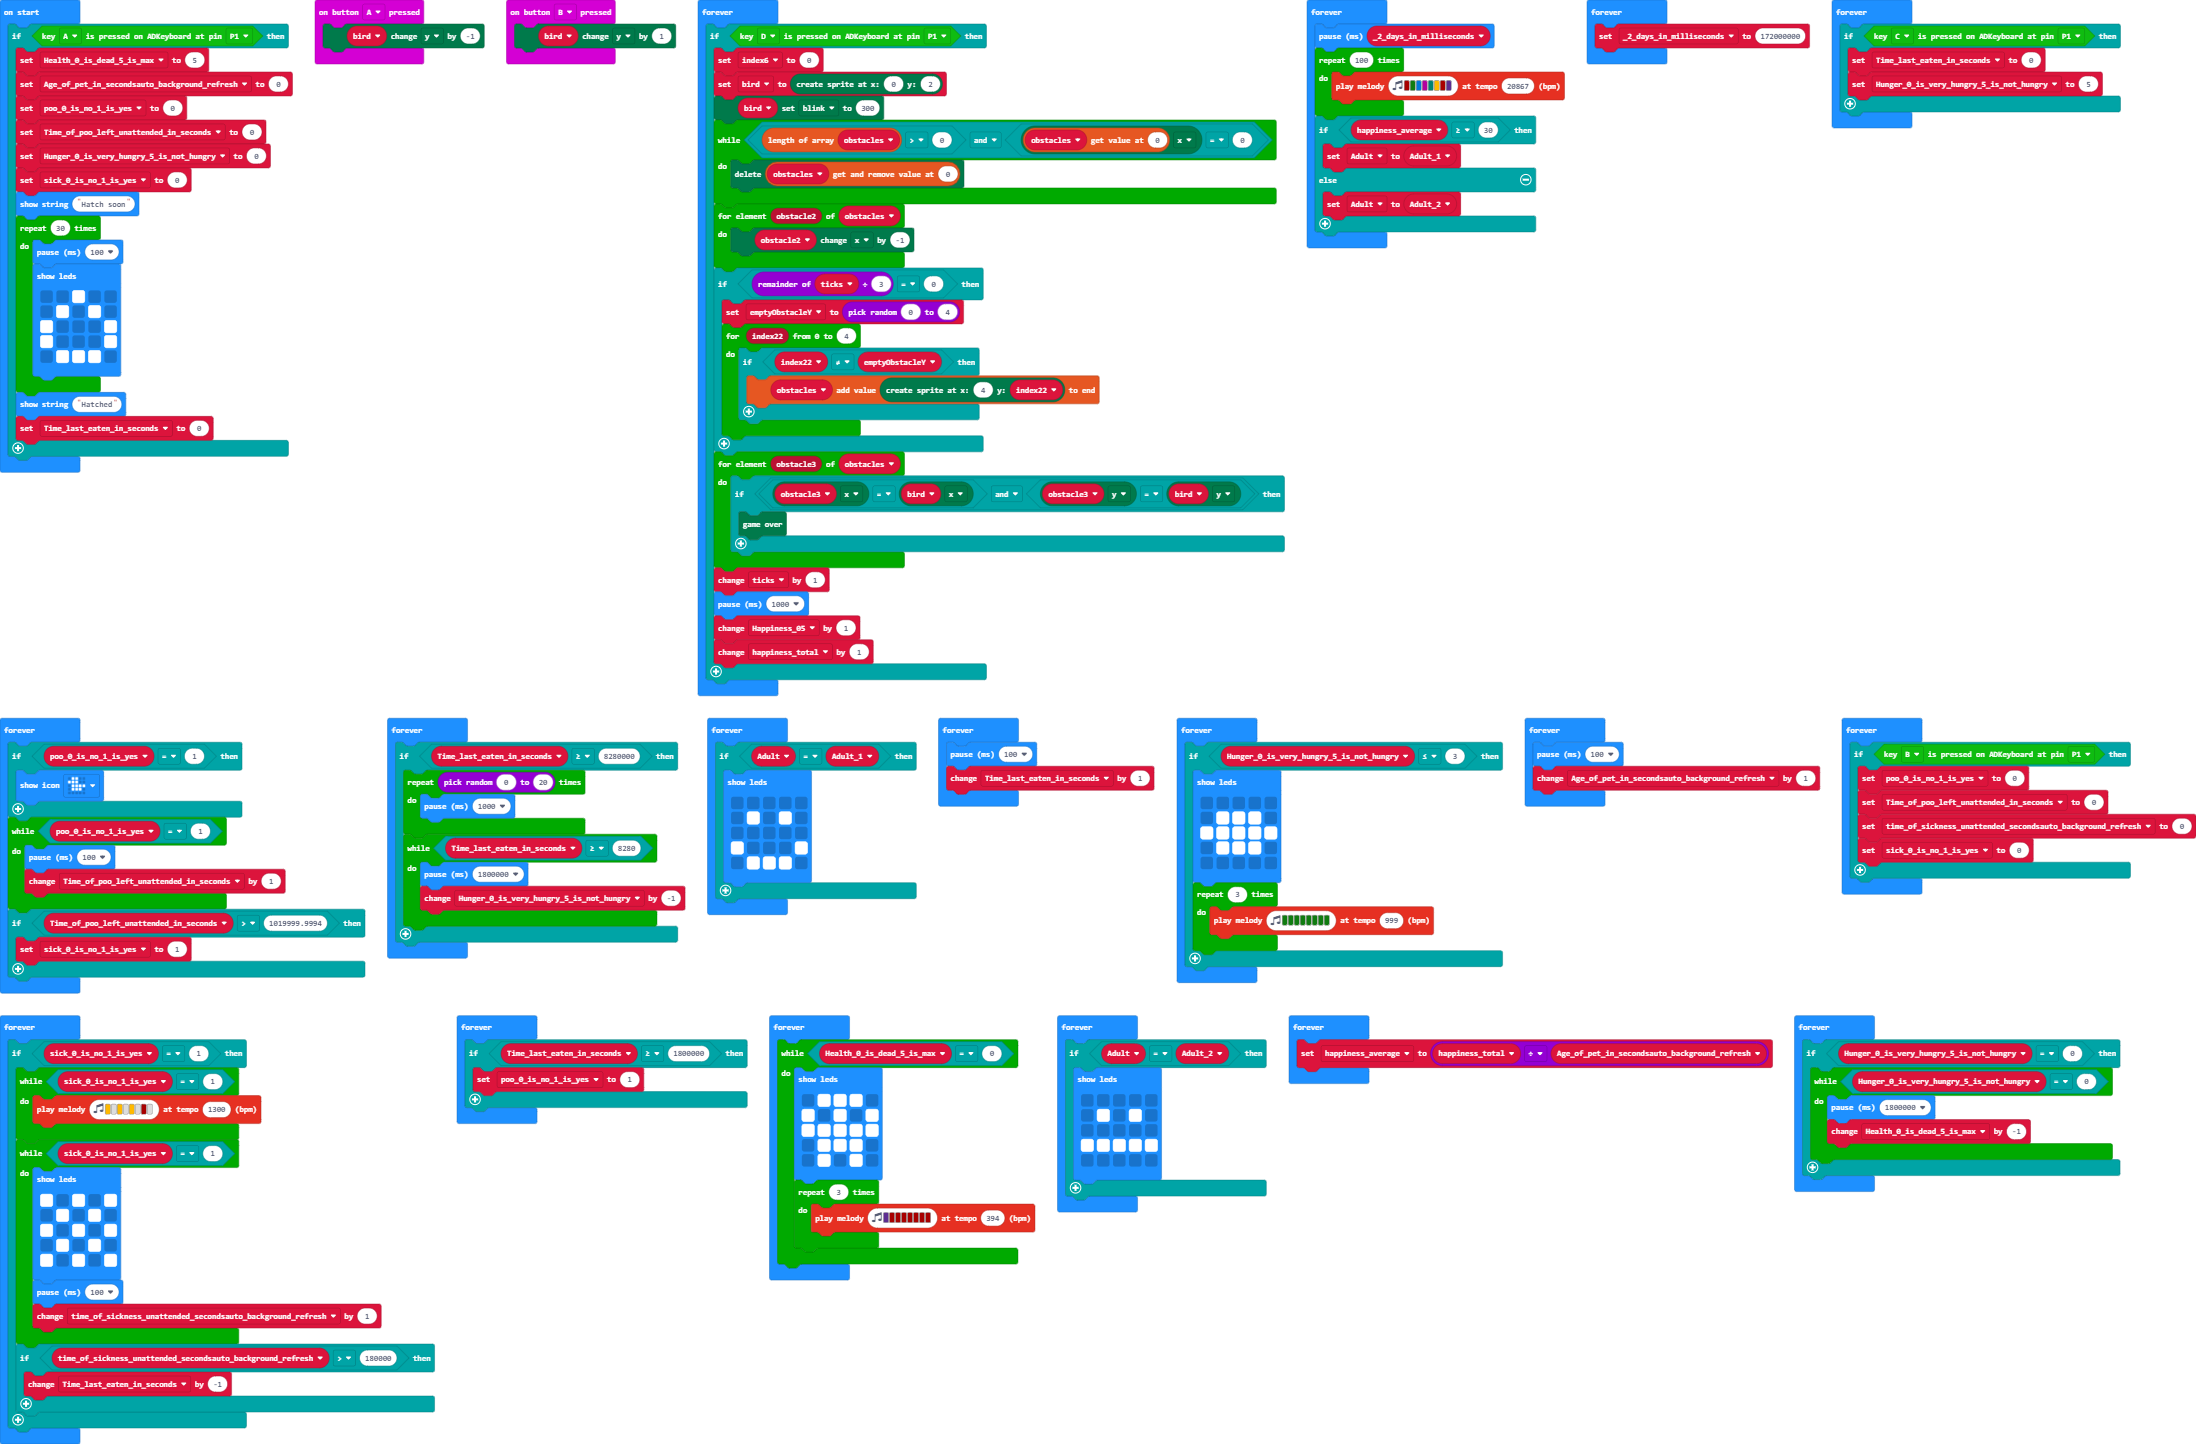
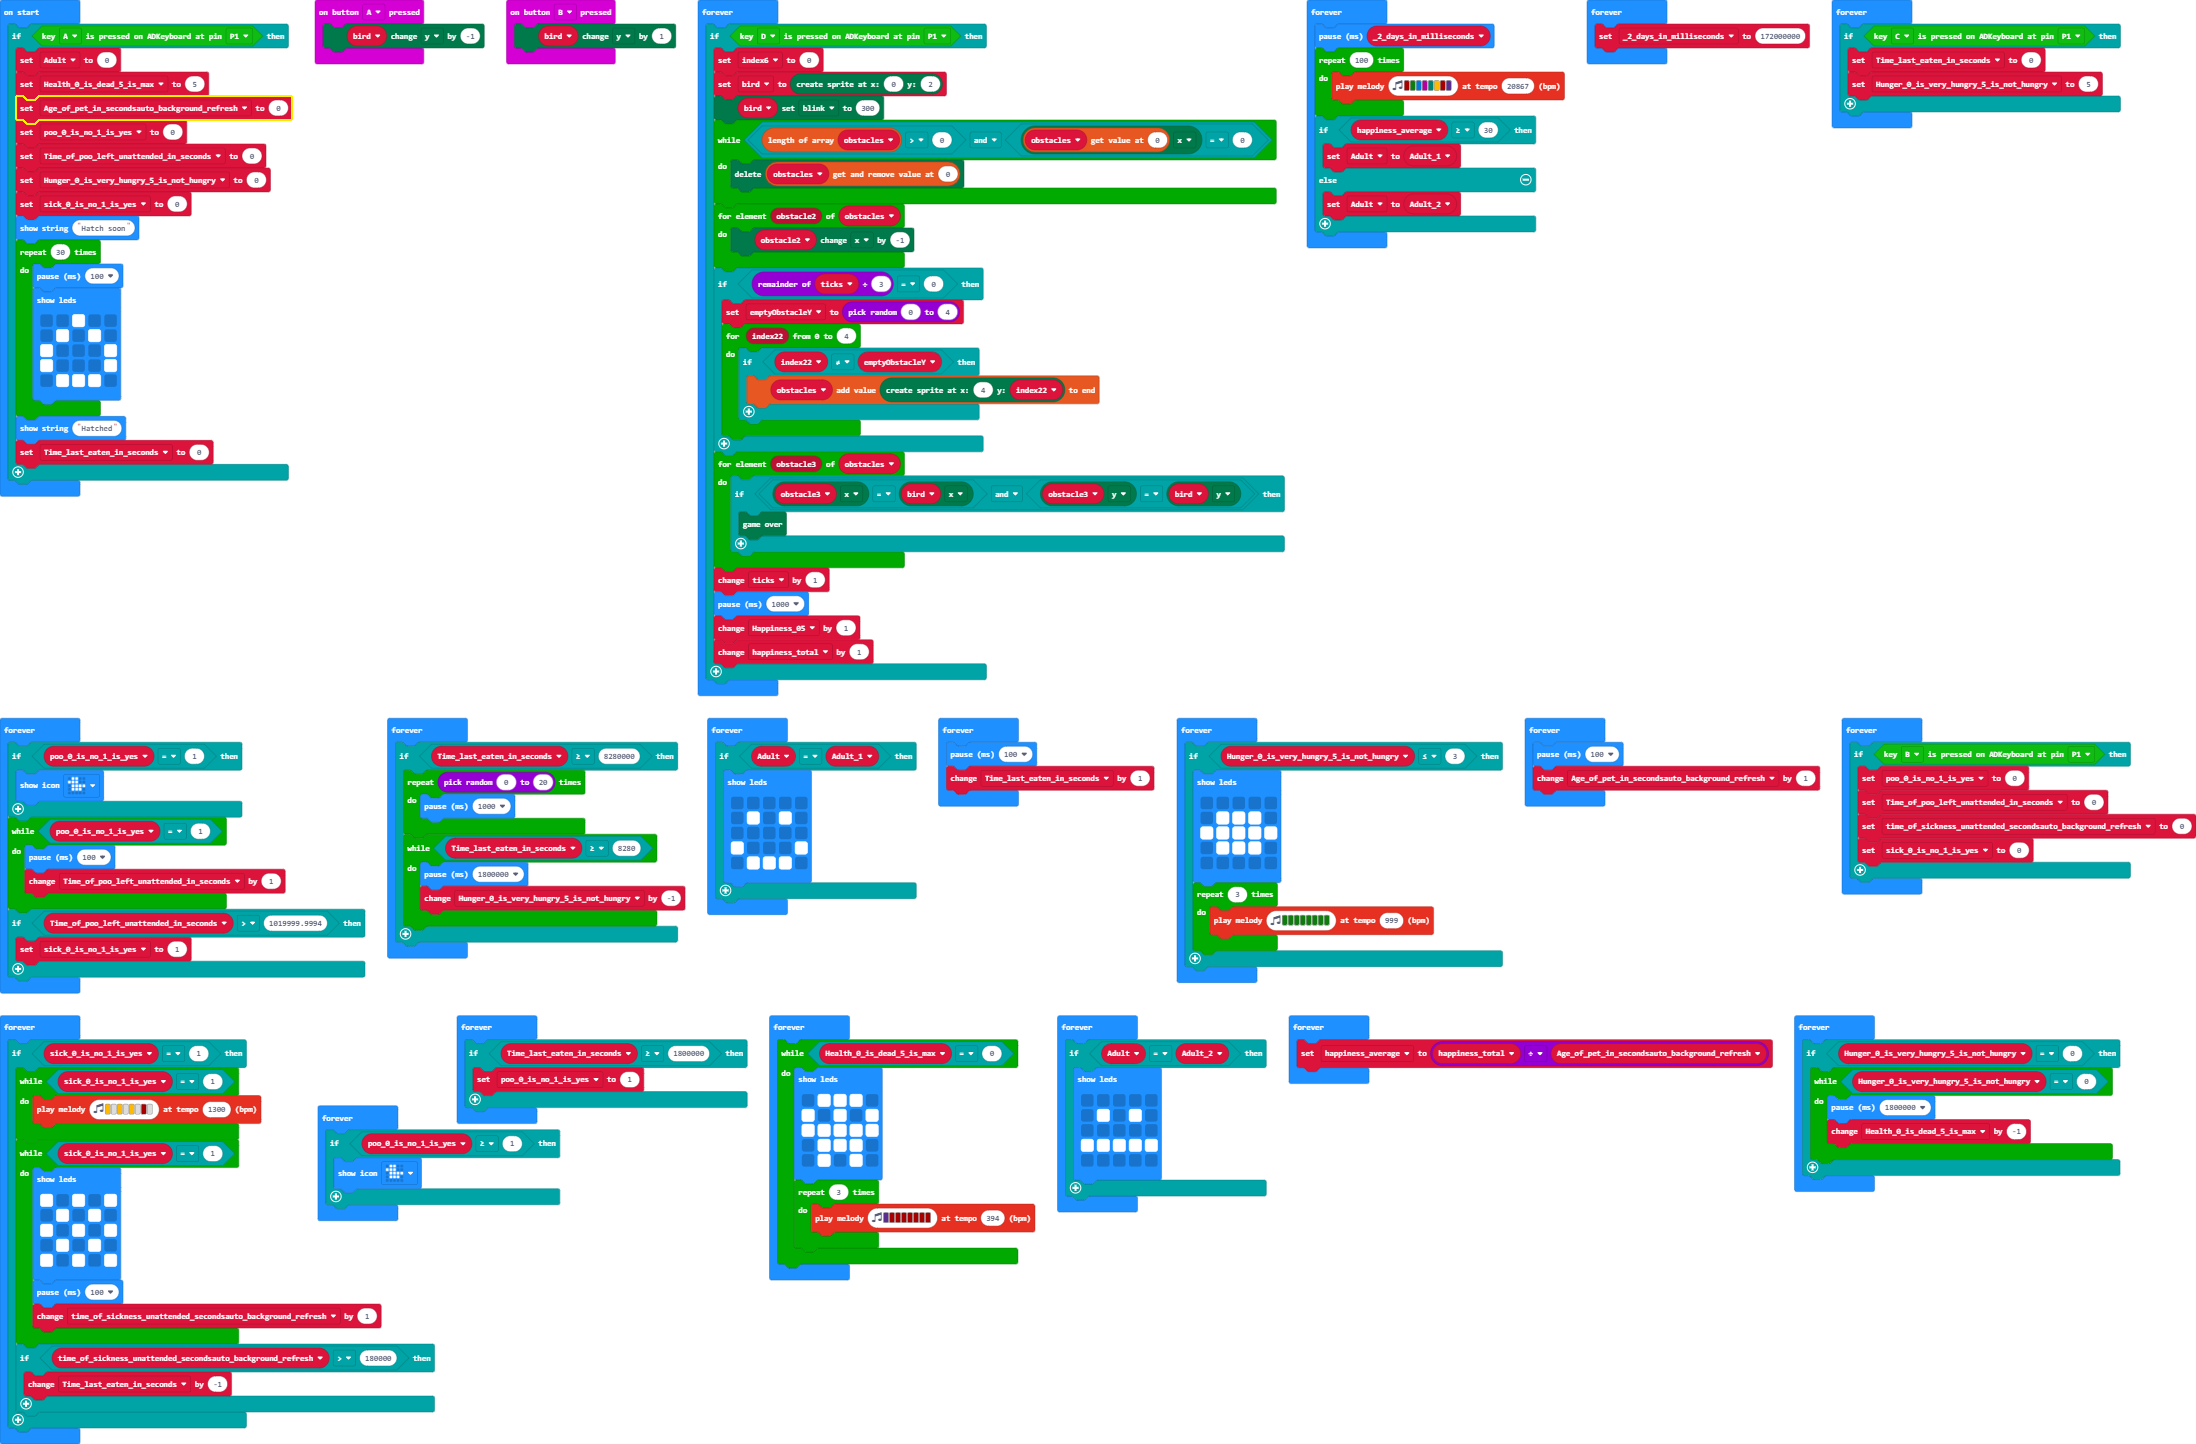
Update main.blocks, main.ts

Changed region(s): [[0.0, 0.0312, 0.1548, 0.3428], [0.1239, 0.7479, 0.2787, 0.8726]]

diff --git a/main.ts b/main.ts
@@ -7,7 +7,6 @@ input.onButtonPressed(Button.B, function () {
 let time_of_sickness_unattended_secondsauto_background_refresh = 0
 let Adult_2 = 0
 let Adult_1 = 0
-let Adult = 0
 let happiness_average = 0
 let _2_days_in_milliseconds = 0
 let happiness_total = 0
@@ -23,7 +22,9 @@ let Time_of_poo_left_unattended_in_seconds = 0
 let poo_0_is_no_1_is_yes = 0
 let Age_of_pet_in_secondsauto_background_refresh = 0
 let Health_0_is_dead_5_is_max = 0
+let Adult = 0
 if (tinkercademy.ADKeyboard(ADKeys.A, AnalogPin.P1)) {
+    Adult = 0
     Health_0_is_dead_5_is_max = 5
     Age_of_pet_in_secondsauto_background_refresh = 0
     poo_0_is_no_1_is_yes = 0
@@ -219,5 +220,10 @@ basic.forever(function () {
             basic.pause(1800000)
             Health_0_is_dead_5_is_max += -1
         }
+    }
+})
+basic.forever(function () {
+    if (poo_0_is_no_1_is_yes >= 1) {
+        basic.showIcon(IconNames.Duck)
     }
 })
